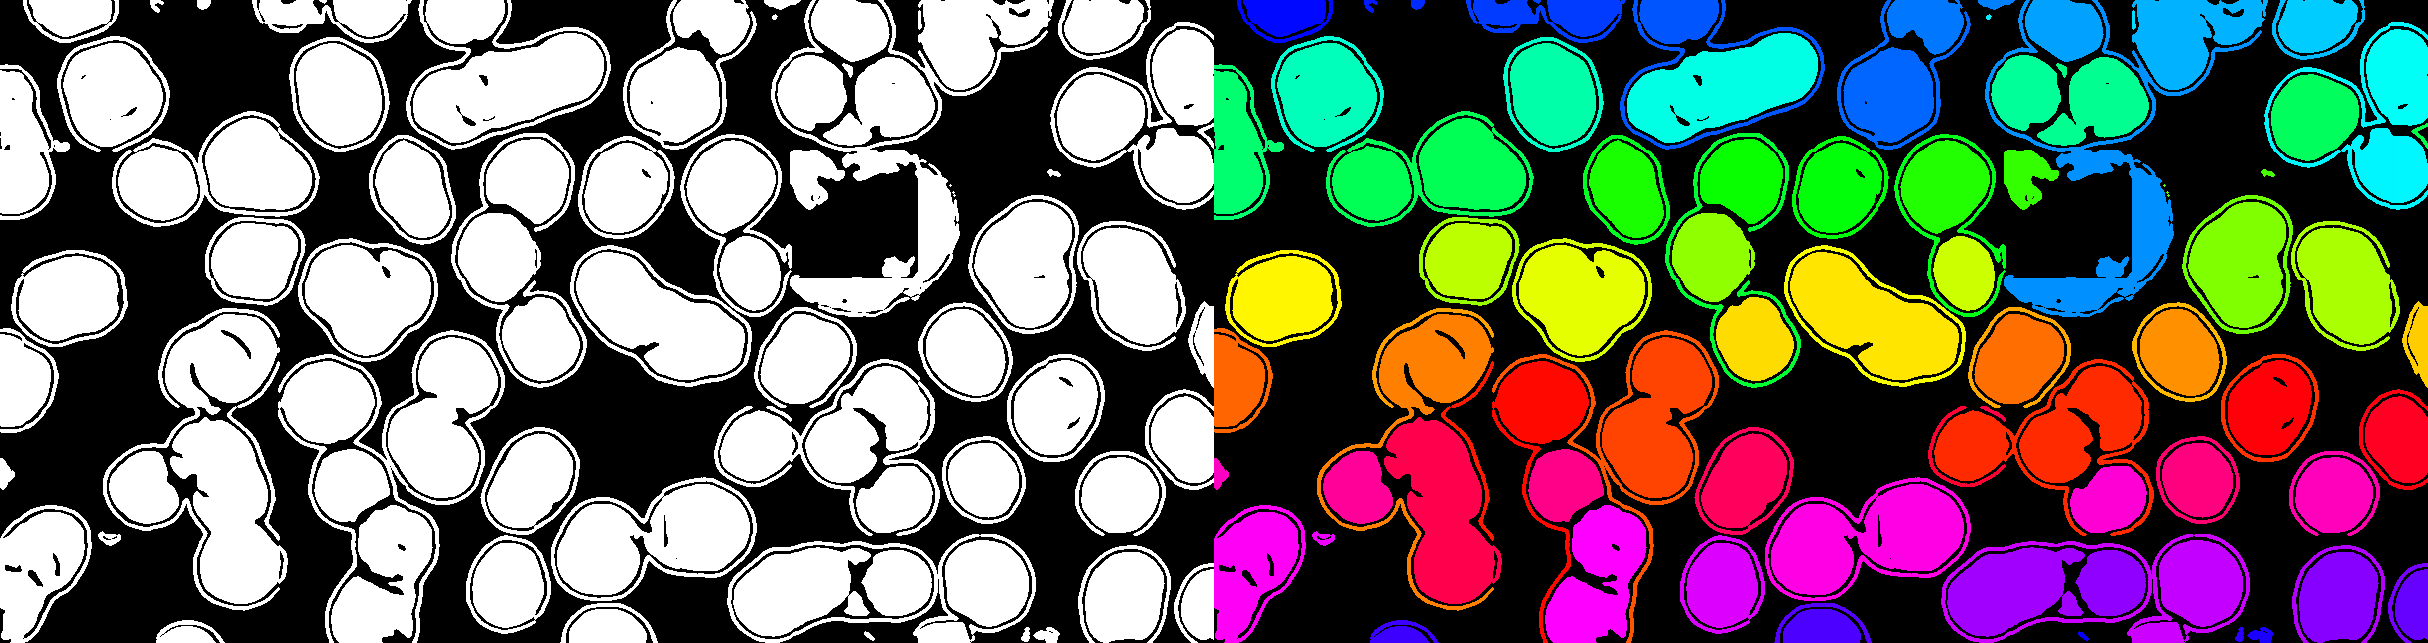
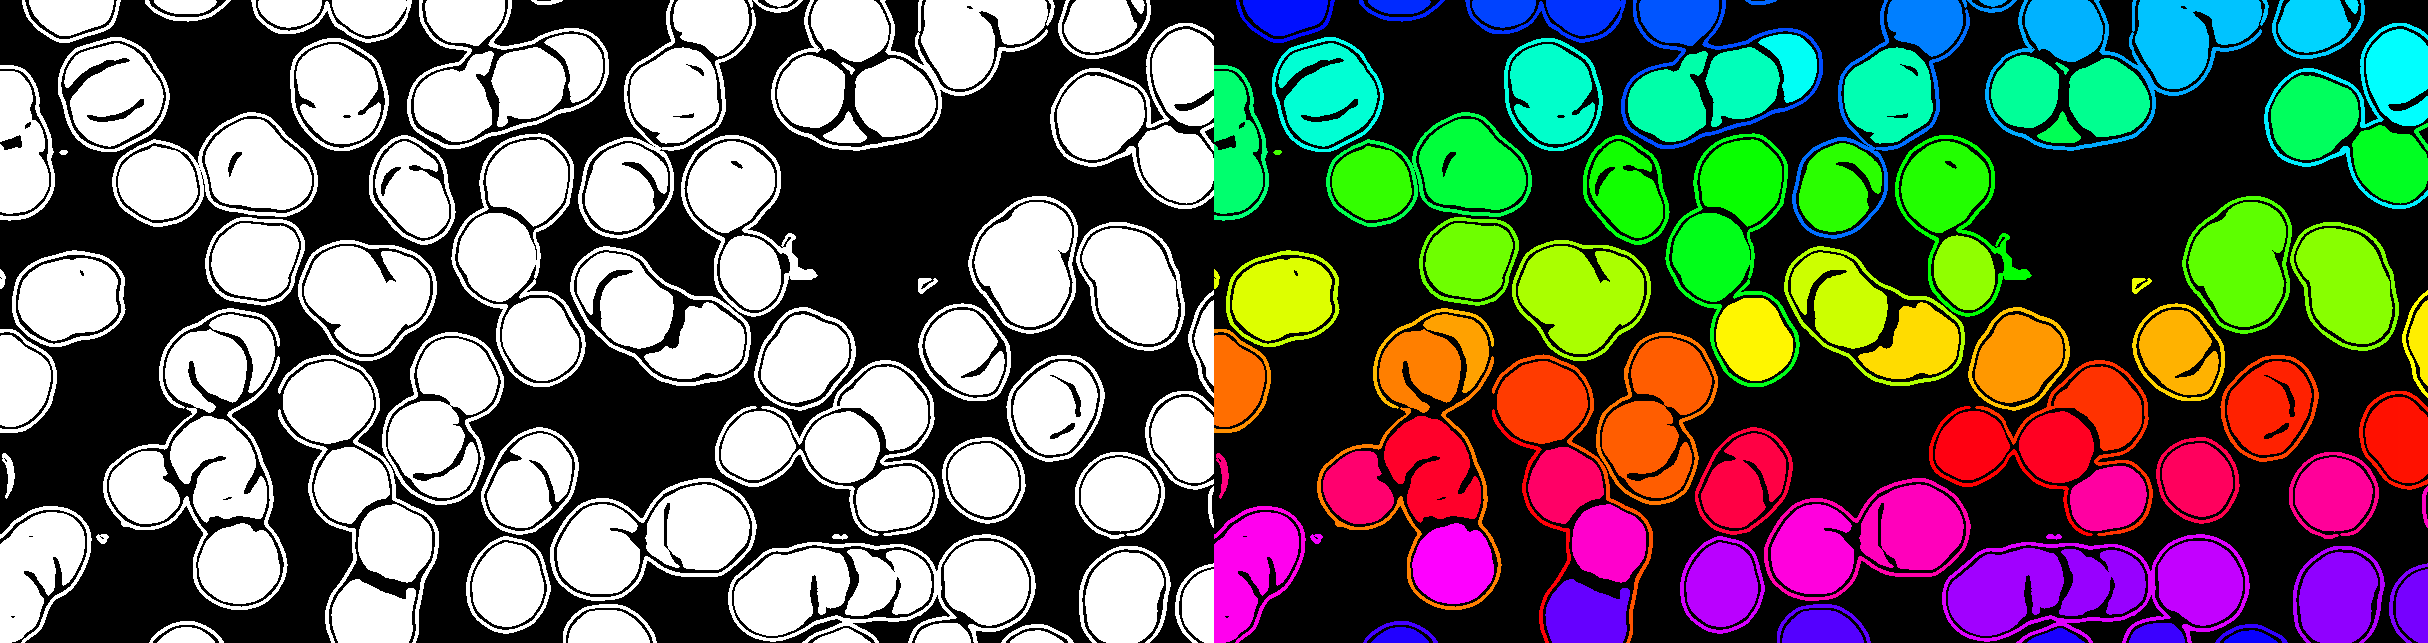
Loaded quadtree test weights to better train the old model on the new lowest quality train dataset!

diff --git a/src/run.py b/src/run.py
@@ -66,12 +66,14 @@ def train(model_name='mse', epochs=100):
     model = segnet()
 
     # create models directory if it does not exist
-    if os.path.exists('models/'):
+    if not os.path.exists('models/'):
         os.makedirs('models/')
 
     # Check for existing weights
     if os.path.exists(f'models/{model_name}.h5'):
         model.load_weights(f'models/{model_name}.h5')
+
+    model.summary()
 
     # fitting the model
     history = model.fit(
@@ -133,11 +135,8 @@ def predict(img='Im037_0.jpg',
     model = segnet()
 
     # Check for existing weights
-    if not os.path.exists(f'models/{model_name}.h5'):
-        train(model_name)
-
-    # load best weights
-    model.load_weights(f'models/{model_name}.h5')
+    if os.path.exists(f'models/{model_name}.h5'):
+        model.load_weights(f'models/{model_name}.h5')
 
     # load test data
     img, mask, edge = data.load_data(image, padding=200)
@@ -154,6 +153,12 @@ def predict(img='Im037_0.jpg',
     output = model.predict(img_chips)
     new_mask_chips = np.array(output[0])
     new_edge_chips = np.array(output[1])
+
+    for chip in new_mask_chips:
+        chip = cv2.morphologyEx(chip, cv2.MORPH_OPEN,cv2.getStructuringElement(cv2.MORPH_ELLIPSE, (3, 3)))
+
+    for chip in new_edge_chips:
+        chip = cv2.morphologyEx(chip, cv2.MORPH_OPEN,cv2.getStructuringElement(cv2.MORPH_ELLIPSE, (3, 3)))
 
     # get image dimensions
     dimensions = [get_sizes(img)[0][0], get_sizes(img)[0][1]]
@@ -359,12 +364,12 @@ def distance_transform(img='threshold_edge_mask.png'):
 
 # main program
 if __name__ == '__main__':
-    # train('quadtree_test')
+    train('quadtree_test')
     # evaluate(model_name='quadtree_test')
-    predict(model_name='quadtree_test', img='dz-1.jpg')
-    threshold('mask.png')
-    threshold('edge.png')
-    threshold('edge_mask.png')
-    distance_transform('threshold_edge_mask.png')
-    hough_transform('edge.png')
-    component_labeling('distance_transform.png')
+    # predict(model_name='quadtree_test')
+    # threshold('mask.png')
+    # threshold('edge.png')
+    # threshold('edge_mask.png')
+    # distance_transform('threshold_edge_mask.png')
+    # hough_transform('edge.png')
+    # component_labeling('distance_transform.png')
